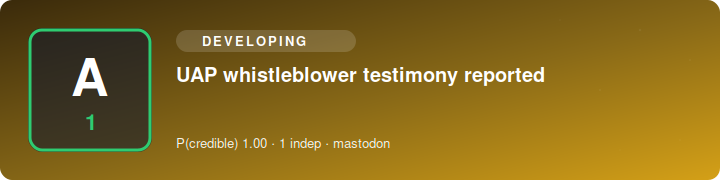
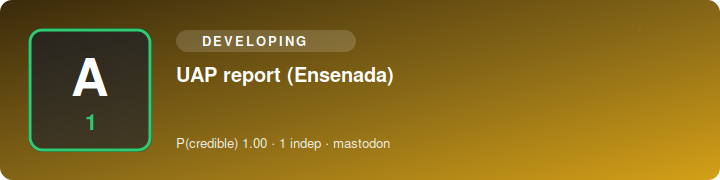
SITREP 2026-07-24 05:30 UTC

Changed region(s): [[0.3056, 0.3611, 0.7639, 0.4722]]

diff --git a/index.html b/index.html
@@ -1,1 +1,1 @@
-<!doctype html><meta charset=utf-8><title>Science Bob News — SITREP</title><style>body{font:16px/1.5 system-ui,sans-serif;max-width:760px;margin:2rem auto;padding:0 1rem;color:#111}h1{font-size:1.5rem}h2{margin-top:1.6rem;border-bottom:1px solid #ddd;padding-bottom:.2rem}ul{list-style:none;padding:0}li{margin:.9rem 0}.hl{font-weight:600}.meta{color:#555;font-size:.85rem}.src{font-size:.85rem}.vid{font-size:.85rem;margin-top:.15rem}.card{display:block;max-width:100%;height:auto;border-radius:8px;margin:.4rem 0 .5rem}.upd{background:#fde68a;padding:0 .3rem;border-radius:.2rem;font-size:.75rem}.sub{color:#777;font-size:.85rem}footer{color:#777;font-size:.8rem;margin-top:2rem;border-top:1px solid #ddd;padding-top:.6rem}</style><h1>🛸 Science Bob News</h1><div class="sub">UAP / UFO / USO SITREP · updated 2026-07-24 05:20 UTC · automated</div><h2>Corroborated</h2><ul><li><i>No corroborated reports.</i></li></ul><h2>Developing / unconfirmed</h2><ul><li><img class="card" src="https://n4hy.github.io/sciencebobnews-site/card_d_1.svg" alt="" width="720" height="180"><div class="hl">Official UAP statement reported (Newly)</div><div class="meta">reliability <b>A1</b> · P(credible)=1.0 · 1 independent source(s) · mastodon</div><div class="src"><a href="https://mastodon.au/@vibewire/116957536031397754">@vibewire@mastodon.au</a></div></li><li><img class="card" src="https://n4hy.github.io/sciencebobnews-site/card_d_2.svg" alt="" width="720" height="180"><div class="hl">Official UAP statement reported</div><div class="meta">reliability <b>A1</b> · P(credible)=1.0 · 1 independent source(s) · mastodon</div><div class="src"><a href="https://mastodon.online/@KilleansRow/116961753740614244">@KilleansRow@mastodon.online</a></div></li><li><img class="card" src="https://n4hy.github.io/sciencebobnews-site/card_d_3.svg" alt="" width="720" height="180"><div class="hl">Official UAP statement reported</div><div class="meta">reliability <b>A1</b> · P(credible)=1.0 · 1 independent source(s) · rumble</div><div class="src"><a href="https://www.youtube.com/watch?v=dbRG-JnfwoI">@podcast</a></div><div class="vid">📹 <a href="https://www.youtube.com/watch?v=dbRG-JnfwoI">video</a> · <a href="https://youtu.be/kccrkCGGzX4?si=yngrpTwmxJhhFH2o">video</a></div></li><li><img class="card" src="https://n4hy.github.io/sciencebobnews-site/card_d_4.svg" alt="" width="720" height="180"><div class="hl">Official UAP statement reported</div><div class="meta">reliability <b>A1</b> · P(credible)=1.0 · 1 independent source(s) · mastodon</div><div class="src"><a href="https://mastodon.au/@vibewire/116970306804199118">@vibewire@mastodon.au</a></div></li><li><img class="card" src="https://n4hy.github.io/sciencebobnews-site/card_d_5.svg" alt="" width="720" height="180"><div class="hl">UAP whistleblower testimony reported</div><div class="meta">reliability <b>A1</b> · P(credible)=1.0 · 1 independent source(s) · mastodon</div><div class="src"><a href="https://mastodon.social/@ScienceBob/116971773003700482">@ScienceBob</a></div></li></ul><footer><b>Powered by Science Bob News.</b> Free to use with credit (see LICENSE). Headlines are factual restatements in the engine's own words; click sources for originals. Single-origin reposts collapse to one source; prosaic candidates flagged where offered.</footer>
+<!doctype html><meta charset=utf-8><title>Science Bob News — SITREP</title><style>body{font:16px/1.5 system-ui,sans-serif;max-width:760px;margin:2rem auto;padding:0 1rem;color:#111}h1{font-size:1.5rem}h2{margin-top:1.6rem;border-bottom:1px solid #ddd;padding-bottom:.2rem}ul{list-style:none;padding:0}li{margin:.9rem 0}.hl{font-weight:600}.meta{color:#555;font-size:.85rem}.src{font-size:.85rem}.vid{font-size:.85rem;margin-top:.15rem}.card{display:block;max-width:100%;height:auto;border-radius:8px;margin:.4rem 0 .5rem}.upd{background:#fde68a;padding:0 .3rem;border-radius:.2rem;font-size:.75rem}.sub{color:#777;font-size:.85rem}footer{color:#777;font-size:.8rem;margin-top:2rem;border-top:1px solid #ddd;padding-top:.6rem}</style><h1>🛸 Science Bob News</h1><div class="sub">UAP / UFO / USO SITREP · updated 2026-07-24 05:30 UTC · automated</div><h2>Corroborated</h2><ul><li><i>No corroborated reports.</i></li></ul><h2>Developing / unconfirmed</h2><ul><li><img class="card" src="https://n4hy.github.io/sciencebobnews-site/card_d_1.svg" alt="" width="720" height="180"><div class="hl">Official UAP statement reported (Newly)</div><div class="meta">reliability <b>A1</b> · P(credible)=1.0 · 1 independent source(s) · mastodon</div><div class="src"><a href="https://mastodon.au/@vibewire/116957536031397754">@vibewire@mastodon.au</a></div></li><li><img class="card" src="https://n4hy.github.io/sciencebobnews-site/card_d_2.svg" alt="" width="720" height="180"><div class="hl">Official UAP statement reported</div><div class="meta">reliability <b>A1</b> · P(credible)=1.0 · 1 independent source(s) · mastodon</div><div class="src"><a href="https://mastodon.online/@KilleansRow/116961753740614244">@KilleansRow@mastodon.online</a></div></li><li><img class="card" src="https://n4hy.github.io/sciencebobnews-site/card_d_3.svg" alt="" width="720" height="180"><div class="hl">Official UAP statement reported</div><div class="meta">reliability <b>A1</b> · P(credible)=1.0 · 1 independent source(s) · mastodon</div><div class="src"><a href="https://mastodon.au/@vibewire/116970306804199118">@vibewire@mastodon.au</a></div></li><li><img class="card" src="https://n4hy.github.io/sciencebobnews-site/card_d_4.svg" alt="" width="720" height="180"><div class="hl">UAP whistleblower testimony reported</div><div class="meta">reliability <b>A1</b> · P(credible)=1.0 · 1 independent source(s) · mastodon</div><div class="src"><a href="https://mastodon.social/@ScienceBob/116971773003700482">@ScienceBob</a></div></li><li><img class="card" src="https://n4hy.github.io/sciencebobnews-site/card_d_5.svg" alt="" width="720" height="180"><div class="hl">UAP report (Ensenada)</div><div class="meta">reliability <b>A1</b> · P(credible)=1.0 · 1 independent source(s) · mastodon</div><div class="src"><a href="https://mastodon.au/@vibewire/116956863906475645">@vibewire@mastodon.au</a></div></li></ul><footer><b>Powered by Science Bob News.</b> Free to use with credit (see LICENSE). Headlines are factual restatements in the engine's own words; click sources for originals. Single-origin reposts collapse to one source; prosaic candidates flagged where offered.</footer>

diff --git a/sitrep.md b/sitrep.md
@@ -1,5 +1,5 @@
 # 🛸 Science Bob News — UAP / UFO / USO SITREP
-*Updated 2026-07-24 05:20 UTC · auto-generated · sources credited & linked · reliability ratings are automated, not editorial*
+*Updated 2026-07-24 05:30 UTC · auto-generated · sources credited & linked · reliability ratings are automated, not editorial*
 
 ## Corroborated
 _No corroborated reports this cycle._
@@ -16,16 +16,15 @@ _No corroborated reports this cycle._
 
 ![Official UAP statement reported](https://n4hy.github.io/sciencebobnews-site/card_d_3.svg)
 3. Official UAP statement reported — reliability A1 · 1 source(s)  
-   [@podcast](https://www.youtube.com/watch?v=dbRG-JnfwoI)  
-   📹 [video](https://www.youtube.com/watch?v=dbRG-JnfwoI) · [video](https://youtu.be/kccrkCGGzX4?si=yngrpTwmxJhhFH2o)
-
-![Official UAP statement reported](https://n4hy.github.io/sciencebobnews-site/card_d_4.svg)
-4. Official UAP statement reported — reliability A1 · 1 source(s)  
    [@vibewire@mastodon.au](https://mastodon.au/@vibewire/116970306804199118)
 
-![UAP whistleblower testimony reported](https://n4hy.github.io/sciencebobnews-site/card_d_5.svg)
-5. UAP whistleblower testimony reported — reliability A1 · 1 source(s)  
+![UAP whistleblower testimony reported](https://n4hy.github.io/sciencebobnews-site/card_d_4.svg)
+4. UAP whistleblower testimony reported — reliability A1 · 1 source(s)  
    [@ScienceBob](https://mastodon.social/@ScienceBob/116971773003700482)
+
+![UAP report (Ensenada)](https://n4hy.github.io/sciencebobnews-site/card_d_5.svg)
+5. UAP report (Ensenada) — reliability A1 · 1 source(s)  
+   [@vibewire@mastodon.au](https://mastodon.au/@vibewire/116956863906475645)
 
 ---
 *Powered by Science Bob News. Free to use with credit (see LICENSE). Headlines are factual restatements in the engine's own words — click through to the linked sources for originals. Reposts of a single origin are collapsed to one source; candidate prosaic explanations are flagged where offered.*
